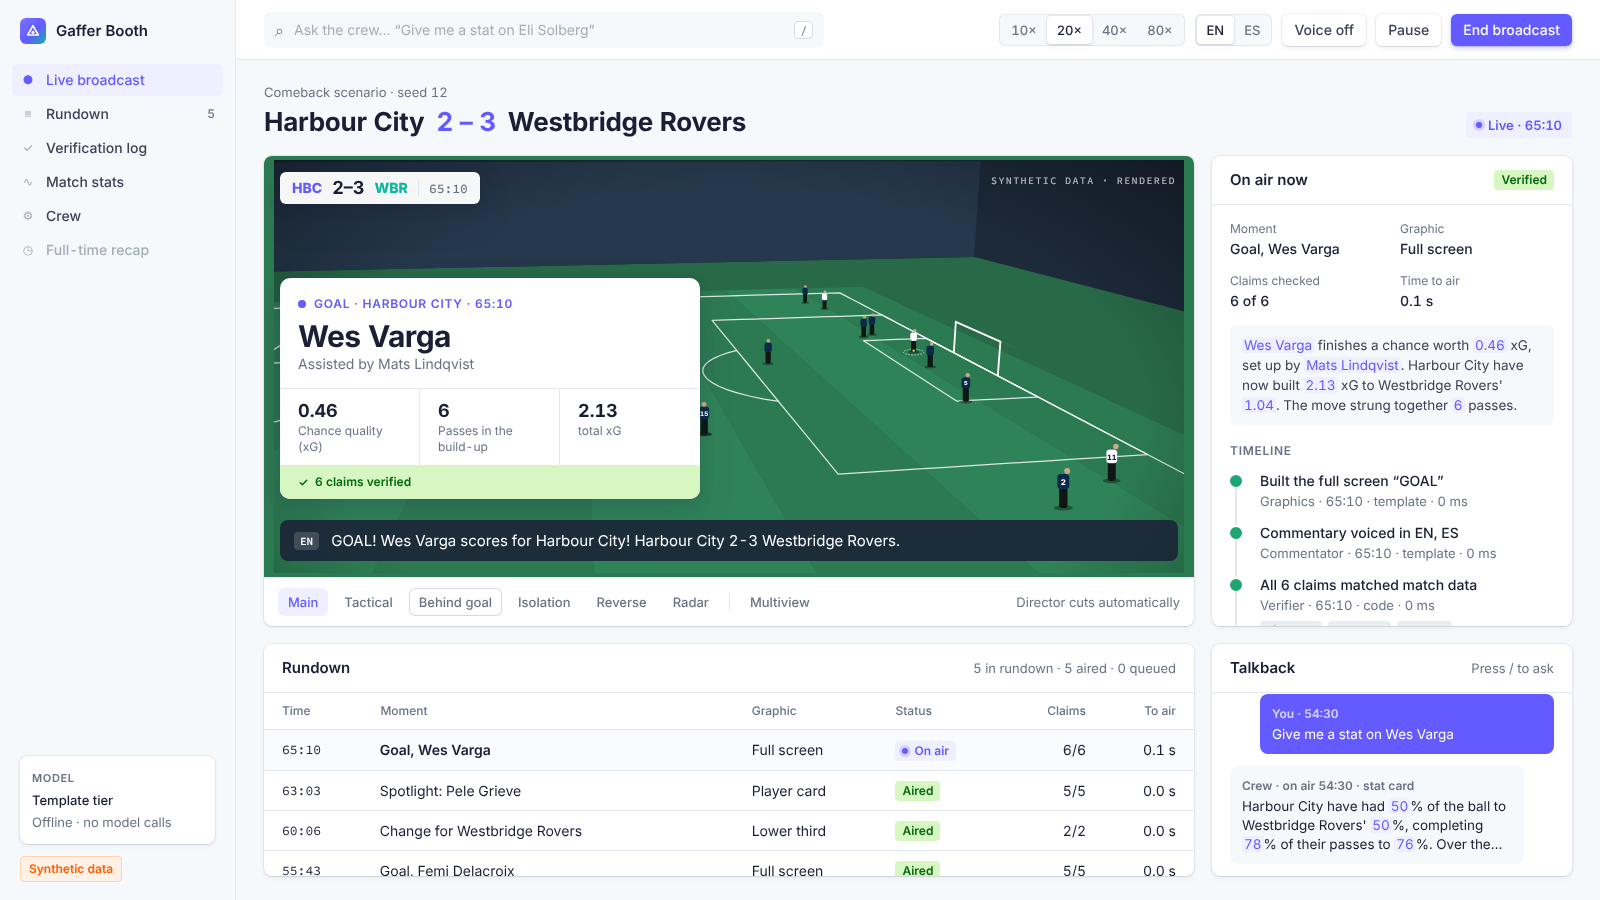
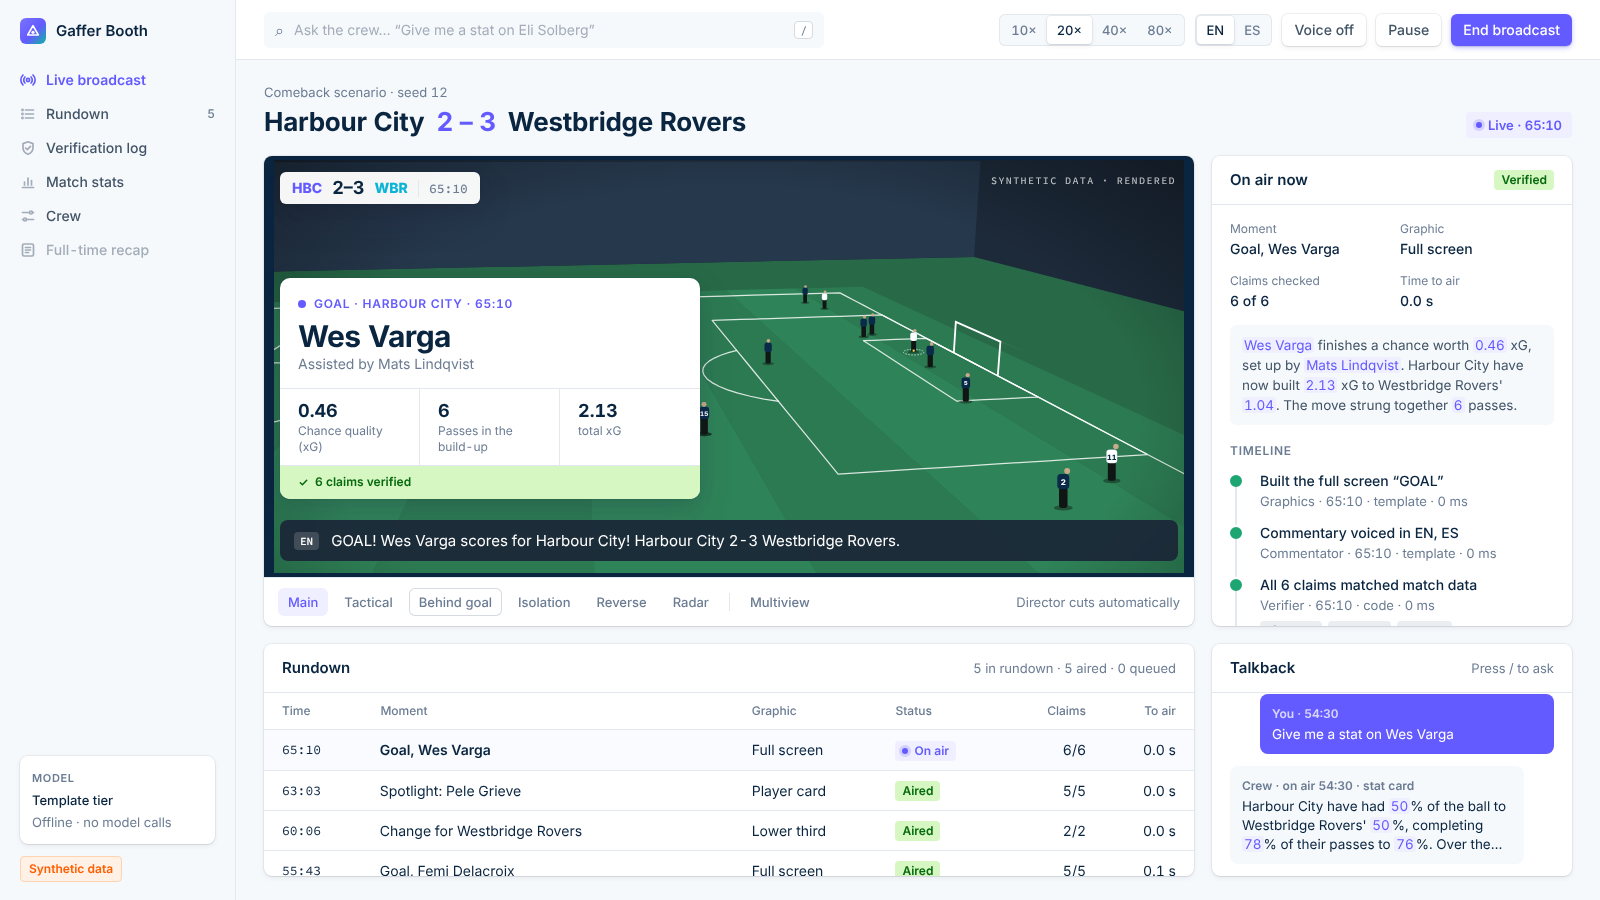
feat(web): polish the Stripe-style UI to match the v3 mockups
Navy text tokens and cyan away side, SVG sidebar icons with a quieter active state,
plain accent links, a lower hero band that clears the headline, the Stripe mesh
palette, and a navy radar view with blurple and cyan dots.

Claude-Session: https://claude.ai/code/session_01CbvhcokrZSWCkUefNvq6f1

Changed region(s): [[0.1562, 0.1556, 0.75, 0.6533], [0.0625, 0.0622, 0.0938, 0.0933]]

diff --git a/web/src/styles.css b/web/src/styles.css
@@ -6,15 +6,17 @@
   --surface: #ffffff;
   --border: #e3e8ee;
   --border-2: #d5dbe1;
-  --text: #1a1f36;
-  --text-2: #3c4257;
-  --muted: #697386;
+  --text: #0a2540;
+  --text-2: #425466;
+  --muted: #6b7c93;
   --faint: #a3acb9;
   --accent: #635bff;
   --accent-hover: #5851ec;
   --accent-soft: #f0efff;
-  --away: #0bb6a1;
-  --away-soft: #e0f7f3;
+  --away: #0ab4d6;
+  --away-soft: #e0f7fc;
+  --navy: #0a2540;
+  --navy-2: #0f2e50;
   --ok: #1ea672;
   --ok-bg: #d7f7c2;
   --ok-text: #05690d;
@@ -228,8 +230,13 @@ h3 {
 }
 .linkbtn {
   color: var(--accent);
-  font-weight: 600;
+  font-weight: 500;
   font-size: 12px;
+  text-decoration: none;
+  transition: color 0.12s;
+}
+.linkbtn:hover {
+  color: var(--text);
 }
 .segctl {
   display: flex;
@@ -349,9 +356,9 @@ button.pill {
   position: absolute;
   left: 0;
   right: 0;
-  top: -60%;
-  height: 95%;
-  transform: skewY(-12deg);
+  top: -340px;
+  height: 684px;
+  transform: skewY(-6deg);
   transform-origin: 0;
   overflow: hidden;
 }
@@ -370,15 +377,13 @@ button.pill {
   padding: 22px 64px;
 }
 .hero-nav {
-  position: absolute;
-  left: 50%;
-  transform: translateX(-50%);
+  margin-left: auto;
   display: flex;
   gap: 28px;
-  font-weight: 500;
+  font-weight: 600;
 }
 .hero-nav a {
-  color: rgba(255, 255, 255, 0.9);
+  color: rgba(255, 255, 255, 0.92);
 }
 .hero-nav a:hover {
   color: #fff;
@@ -389,19 +394,20 @@ button.pill {
   display: grid;
   grid-template-columns: minmax(0, 1fr) 520px;
   gap: 64px;
-  padding: 56px 64px 48px;
+  padding: 30px 64px 48px;
   align-items: start;
 }
 .lead h1 {
-  font-size: 56px;
-  line-height: 60px;
+  font-size: 50px;
+  line-height: 54px;
   font-weight: 800;
   letter-spacing: -0.035em;
-  color: var(--text);
+  color: var(--navy);
+  mix-blend-mode: color-burn;
   max-width: 640px;
 }
 .lead p {
-  margin-top: 24px;
+  margin-top: 84px;
   font-size: 19px;
   line-height: 30px;
   color: var(--text-2);
@@ -413,7 +419,7 @@ button.pill {
   margin-top: 40px;
 }
 .proof-stats div {
-  border-left: 2px solid var(--accent);
+  border-left: 1px solid var(--accent);
   padding-left: 14px;
 }
 .proof-stats b {
@@ -607,17 +613,22 @@ button.pill {
   text-align: left;
 }
 .nav button:hover:not(:disabled):not(.on) {
-  background: #edf1f6;
+  color: var(--text);
+  background: #ebeef3;
 }
 .nav button:disabled {
   color: var(--faint);
 }
-.nav i {
+.nav svg {
   width: 16px;
-  text-align: center;
-  font-style: normal;
+  height: 16px;
+  flex: none;
+  fill: none;
+  stroke: currentColor;
+  stroke-width: 1.7;
+  stroke-linecap: round;
+  stroke-linejoin: round;
   color: var(--faint);
-  font-size: 12px;
 }
 .nav em {
   margin-left: auto;
@@ -627,9 +638,9 @@ button.pill {
 }
 .nav .on {
   color: var(--accent);
-  background: var(--accent-soft);
+  font-weight: 600;
 }
-.nav .on i,
+.nav .on svg,
 .nav .on em {
   color: var(--accent);
 }
@@ -866,7 +877,7 @@ h1 .sc {
   position: relative;
   flex: 1;
   min-height: 0;
-  background: var(--grass-a);
+  background: var(--navy);
   overflow: hidden;
 }
 .monitor {
@@ -901,6 +912,13 @@ svg.pitch {
 .pitch .dot text {
   font: 700 1.75px var(--sans);
   text-anchor: middle;
+}
+svg.pitch.radar {
+  background: var(--navy);
+}
+.radar .lines {
+  stroke: rgba(255, 255, 255, 0.28);
+  stroke-width: 0.25;
 }
 .pitch .halo {
   fill: none;

diff --git a/web/src/components/Shell.tsx b/web/src/components/Shell.tsx
@@ -3,13 +3,51 @@ import { Brand } from "./Brand";
 
 export type Page = "live" | "rundown" | "verify" | "stats" | "crew" | "recap";
 
-const NAV: { id: Page; label: string; icon: string }[] = [
-  { id: "live", label: "Live broadcast", icon: "●" },
-  { id: "rundown", label: "Rundown", icon: "≡" },
-  { id: "verify", label: "Verification log", icon: "✓" },
-  { id: "stats", label: "Match stats", icon: "∿" },
-  { id: "crew", label: "Crew", icon: "⚙" },
-  { id: "recap", label: "Full-time recap", icon: "◷" },
+/** 16px stroke icons, drawn in currentColor by the .nav CSS. */
+const ICONS: Record<Page, ReactNode> = {
+  live: (
+    <>
+      <circle cx="8" cy="8" r="1.6" />
+      <path d="M5 5a4.2 4.2 0 0 0 0 6M11 5a4.2 4.2 0 0 1 0 6M3 3a7 7 0 0 0 0 10M13 3a7 7 0 0 1 0 10" />
+    </>
+  ),
+  rundown: (
+    <>
+      <path d="M5.5 4h8M5.5 8h8M5.5 12h8" />
+      <circle cx="2.5" cy="4" r=".6" />
+      <circle cx="2.5" cy="8" r=".6" />
+      <circle cx="2.5" cy="12" r=".6" />
+    </>
+  ),
+  verify: (
+    <>
+      <path d="M8 1.8 13 3.6v4.1c0 3-2.1 5.4-5 6.5-2.9-1.1-5-3.5-5-6.5V3.6Z" />
+      <path d="m5.6 8 1.7 1.7 3.2-3.4" />
+    </>
+  ),
+  stats: <path d="M2.5 13.5h11M4.5 11V8M8 11V4M11.5 11V6.5" />,
+  crew: (
+    <>
+      <path d="M2.5 4.5h7M12.5 4.5h1M2.5 11.5h1M6.5 11.5h7" />
+      <circle cx="11" cy="4.5" r="1.5" />
+      <circle cx="5" cy="11.5" r="1.5" />
+    </>
+  ),
+  recap: (
+    <>
+      <rect x="2.5" y="2" width="11" height="12" rx="1.5" />
+      <path d="M5.5 5.5h5M5.5 8h5M5.5 10.5h3" />
+    </>
+  ),
+};
+
+const NAV: { id: Page; label: string }[] = [
+  { id: "live", label: "Live broadcast" },
+  { id: "rundown", label: "Rundown" },
+  { id: "verify", label: "Verification log" },
+  { id: "stats", label: "Match stats" },
+  { id: "crew", label: "Crew" },
+  { id: "recap", label: "Full-time recap" },
 ];
 
 /** "openai:gpt-x" → model name and provider for the sidebar card. */
@@ -60,7 +98,9 @@ export function Shell({ page, setPage, disabled, counts, mode, bar, children }: 
                 disabled={why !== undefined}
                 title={why}
               >
-                <i aria-hidden="true">{n.icon}</i>
+                <svg viewBox="0 0 16 16" aria-hidden="true">
+                  {ICONS[n.id]}
+                </svg>
                 {n.label}
                 {count !== undefined && count > 0 && <em>{count}</em>}
               </button>

diff --git a/web/src/components/Setup.tsx b/web/src/components/Setup.tsx
@@ -34,14 +34,14 @@ function Mesh() {
       const g = c.getContext("2d");
       if (!g) return;
       g.scale(d, d);
-      g.fillStyle = "#7038ff";
+      g.fillStyle = "#a960ee";
       g.fillRect(0, 0, r.width, r.height);
       const blobs: [number, number, number, string][] = [
-        [0.05, 0.85, 0.45, "#ef008f"],
-        [0.4, 0.95, 0.4, "#ff5f6d"],
-        [0.7, 0.9, 0.45, "#ffba27"],
-        [0.95, 0.7, 0.4, "#6ec3f4"],
-        [0.55, 0.5, 0.35, "#7038ff"],
+        [0.08, 0.9, 0.42, "#ff333d"],
+        [0.35, 0.95, 0.38, "#ff8a4d"],
+        [0.62, 0.95, 0.4, "#ffcb57"],
+        [0.9, 0.85, 0.45, "#90e0ff"],
+        [0.75, 0.45, 0.4, "#a960ee"],
       ];
       for (const [x, y, rad, col] of blobs) {
         const gr = g.createRadialGradient(x * r.width, y * r.height, 0, x * r.width, y * r.height, rad * r.width);

diff --git a/web/src/components/Pitch.tsx b/web/src/components/Pitch.tsx
@@ -19,9 +19,9 @@ export function Pitch({ frame, events, colors, speed, thumb = false }: Props) {
   const [bx, by] = frame.ball;
 
   return (
-    <svg className="pitch" viewBox={`-4 -4 ${W + 8} ${H + 8}`} preserveAspectRatio="xMidYMid meet" aria-hidden="true">
+    <svg className="pitch radar" viewBox={`-4 -4 ${W + 8} ${H + 8}`} preserveAspectRatio="xMidYMid meet" aria-hidden="true">
       {Array.from({ length: 12 }, (_, i) => (
-        <rect key={i} x={-4 + i * 9.42} y="-4" width="9.42" height={H + 8} fill={i % 2 ? "var(--grass-a)" : "var(--grass-b)"} />
+        <rect key={i} x={-4 + i * 9.42} y="-4" width="9.42" height={H + 8} fill={i % 2 ? "var(--navy)" : "var(--navy-2)"} />
       ))}
       <g className="lines">
         <rect width={W} height={H} />

diff --git a/web/src/components/Cameras.tsx b/web/src/components/Cameras.tsx
@@ -17,8 +17,11 @@ interface ShotProps {
 }
 
 /** One camera's picture of a frame. */
+/** The radar is a data view, so it uses the UI side colours on navy rather than the rendered kits. */
+const RADAR_KITS: Record<Side, string> = { home: "#8f89ff", away: "#2fd3f0" };
+
 export function Shot({ cam, frame, dir, colors, events, speed, thumb }: ShotProps) {
-  if (cam === "radar") return <Pitch frame={frame} events={events} colors={colors} speed={speed} thumb={thumb} />;
+  if (cam === "radar") return <Pitch frame={frame} events={events} colors={RADAR_KITS} speed={speed} thumb={thumb} />;
   return <CameraView frame={frame} rig={rigFor(cam, frame, dir.attack, dir.focus)} colors={colors} thumb={thumb} />;
 }
 
